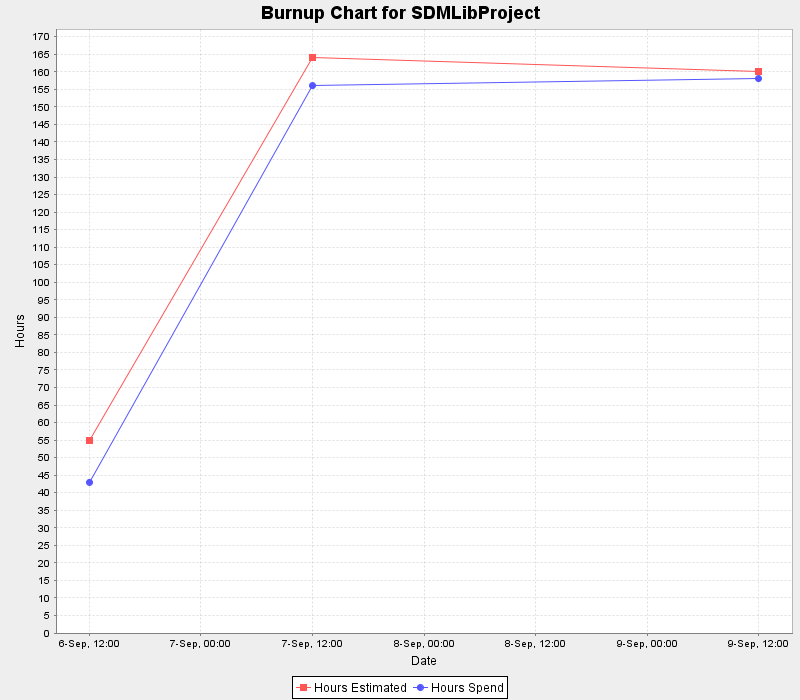
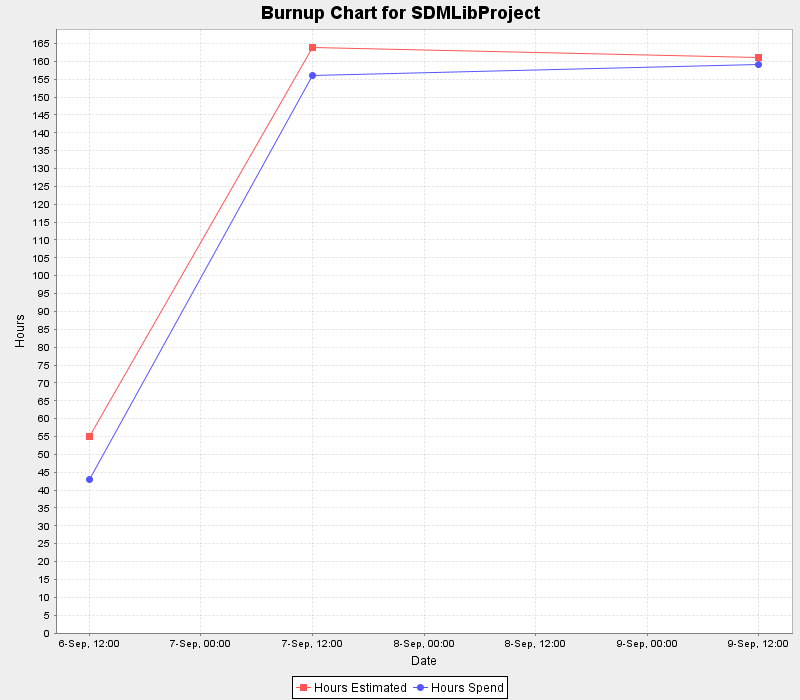
exclude ReverseClassModelTest from ant tests. Problems to find the files. Probably wrong working directory.
git-svn-id: https://svn.code.sf.net/p/sdmlib/code-0/trunk@483 2b52b8e8-071c-4d2f-a868-389f512d1cbb

Changed region(s): [[0.0938, 0.06, 0.9688, 0.66], [0.0312, 0.03, 0.0625, 0.81], [0.0938, 0.66, 0.125, 0.69]]

diff --git a/doc/objectData.html b/doc/objectData.html
@@ -1,6 +1,6 @@
 <html>
 <body>
-<a name='KE.K1'><p>id: <a href='#KE.K1'>KE.K1</a> <br/>class: org.sdmlib.storyboards.KanbanEntry <br/>prop: {"name":"SDMLibProject","phase":"active","lastDeveloper":"zuendorf","hoursRemaining":2,"hoursSpend":158,"subentries":[{"id":"KE.K85"},{"id":"KE.K36"},{"id":"KE.K23"},{"id":"KE.K2"},{"id":"KE.K4"},{"id":"KE.K12"},{"id":"KE.K26"},{"id":"KE.K28"},{"id":"KE.K30"},{"id":"KE.K32"},{"id":"KE.K34"},{"id":"KE.K38"},{"id":"KE.K40"},{"id":"KE.K42"},{"id":"KE.K44"},{"id":"KE.K48"},{"id":"KE.K58"},{"id":"KE.K61"},{"id":"KE.K82"},{"id":"KE.K88"},{"id":"KE.K90"},{"id":"KE.K102"},{"id":"KE.K104"},{"id":"KE.K113"},{"id":"KE.K115"},{"id":"KE.K119"},{"id":"KE.K123"},{"id":"KE.K125"},{"id":"KE.K127"},{"id":"KE.K139"},{"id":"KE.K143"},{"id":"KE.K145"},{"id":"KE.K154"}],"logEntries":[{"id":"KE.L57"},{"id":"KE.L7"},{"id":"KE.L11"},{"id":"KE.L15"},{"id":"KE.L22"},{"id":"KE.L25"},{"id":"KE.L52"},{"id":"KE.L64"},{"id":"KE.L69"},{"id":"KE.L81"},{"id":"KE.L84"},{"id":"KE.L87"},{"id":"KE.L93"},{"id":"KE.L94"},{"id":"KE.L95"},{"id":"KE.L101"},{"id":"KE.L112"},{"id":"KE.L118"},{"id":"KE.L122"},{"id":"KE.L136"},{"id":"KE.L138"},{"id":"KE.L142"},{"id":"KE.L153"},{"id":"KE.L161"}]} <br/></p></a>
+<a name='KE.K1'><p>id: <a href='#KE.K1'>KE.K1</a> <br/>class: org.sdmlib.storyboards.KanbanEntry <br/>prop: {"name":"SDMLibProject","phase":"active","lastDeveloper":"zuendorf","hoursRemaining":2,"hoursSpend":159,"subentries":[{"id":"KE.K85"},{"id":"KE.K36"},{"id":"KE.K23"},{"id":"KE.K2"},{"id":"KE.K4"},{"id":"KE.K12"},{"id":"KE.K26"},{"id":"KE.K28"},{"id":"KE.K30"},{"id":"KE.K32"},{"id":"KE.K34"},{"id":"KE.K38"},{"id":"KE.K40"},{"id":"KE.K42"},{"id":"KE.K44"},{"id":"KE.K48"},{"id":"KE.K58"},{"id":"KE.K61"},{"id":"KE.K82"},{"id":"KE.K88"},{"id":"KE.K90"},{"id":"KE.K102"},{"id":"KE.K104"},{"id":"KE.K113"},{"id":"KE.K115"},{"id":"KE.K119"},{"id":"KE.K123"},{"id":"KE.K125"},{"id":"KE.K127"},{"id":"KE.K139"},{"id":"KE.K143"},{"id":"KE.K145"},{"id":"KE.K154"}],"logEntries":[{"id":"KE.L57"},{"id":"KE.L7"},{"id":"KE.L11"},{"id":"KE.L15"},{"id":"KE.L22"},{"id":"KE.L25"},{"id":"KE.L52"},{"id":"KE.L64"},{"id":"KE.L69"},{"id":"KE.L81"},{"id":"KE.L84"},{"id":"KE.L87"},{"id":"KE.L93"},{"id":"KE.L94"},{"id":"KE.L95"},{"id":"KE.L101"},{"id":"KE.L112"},{"id":"KE.L118"},{"id":"KE.L122"},{"id":"KE.L136"},{"id":"KE.L138"},{"id":"KE.L142"},{"id":"KE.L153"},{"id":"KE.L161"},{"id":"KE.L163"}]} <br/></p></a>
 <a name='KE.K2'><p>id: <a href='#KE.K2'>KE.K2</a> <br/>class: org.sdmlib.storyboards.KanbanEntry <br/>prop: {"name":"StudyRight with assignments class generation","phase":"backlog","lastDeveloper":"ulno","parent":{"id":"KE.K1"},"logEntries":[{"id":"KE.L3"}]} <br/></p></a>
 <a name='KE.K4'><p>id: <a href='#KE.K4'>KE.K4</a> <br/>class: org.sdmlib.storyboards.KanbanEntry <br/>prop: {"name":"LudoStoryboardManual","phase":"backlog","lastDeveloper":"ulno","hoursSpend":1,"parent":{"id":"KE.K1"},"logEntries":[{"id":"KE.L6"},{"id":"KE.L5"}]} <br/></p></a>
 <a name='KE.K8'><p>id: <a href='#KE.K8'>KE.K8</a> <br/>class: org.sdmlib.storyboards.KanbanEntry <br/>prop: {"name":"LudoStoryboard","phase":"backlog","lastDeveloper":"ulno","hoursSpend":4,"parent":{"id":"KE.K127"},"logEntries":[{"id":"KE.L10"},{"id":"KE.L9"}]} <br/></p></a>
@@ -25,7 +25,7 @@
 <a name='KE.K65'><p>id: <a href='#KE.K65'>KE.K65</a> <br/>class: org.sdmlib.storyboards.KanbanEntry <br/>prop: {"name":"StudyRightReverseClassModel","phase":"backlog","lastDeveloper":"ulno","hoursSpend":1,"parent":{"id":"KE.K123"},"logEntries":[{"id":"KE.L68"},{"id":"KE.L67"},{"id":"KE.L66"}]} <br/></p></a>
 <a name='KE.K70'><p>id: <a href='#KE.K70'>KE.K70</a> <br/>class: org.sdmlib.storyboards.KanbanEntry <br/>prop: {"name":"StudyRightClassesCodeGen","phase":"implementation","lastDeveloper":"zuendorf","hoursSpend":12,"parent":{"id":"KE.K123"},"logEntries":[{"id":"KE.L80"},{"id":"KE.L75"},{"id":"KE.L77"},{"id":"KE.L71"},{"id":"KE.L72"},{"id":"KE.L74"},{"id":"KE.L78"},{"id":"KE.L76"},{"id":"KE.L73"},{"id":"KE.L79"}]} <br/></p></a>
 <a name='KE.K82'><p>id: <a href='#KE.K82'>KE.K82</a> <br/>class: org.sdmlib.storyboards.KanbanEntry <br/>prop: {"name":"WrapExistingClasses","phase":"backlog","lastDeveloper":"zuendorf","hoursSpend":5,"parent":{"id":"KE.K1"},"logEntries":[{"id":"KE.L83"}]} <br/></p></a>
-<a name='KE.K85'><p>id: <a href='#KE.K85'>KE.K85</a> <br/>class: org.sdmlib.storyboards.KanbanEntry <br/>prop: {"name":"SortIndex","phase":"done","lastDeveloper":"zuendorf","hoursSpend":1,"parent":{"id":"KE.K1"},"subentries":[{"id":"KE.K155"}],"logEntries":[{"id":"KE.L86"}]} <br/></p></a>
+<a name='KE.K85'><p>id: <a href='#KE.K85'>KE.K85</a> <br/>class: org.sdmlib.storyboards.KanbanEntry <br/>prop: {"name":"SortIndex","phase":"done","lastDeveloper":"zuendorf","hoursSpend":1,"parent":{"id":"KE.K1"},"logEntries":[{"id":"KE.L86"}]} <br/></p></a>
 <a name='KE.K88'><p>id: <a href='#KE.K88'>KE.K88</a> <br/>class: org.sdmlib.storyboards.KanbanEntry <br/>prop: {"name":"taskFlowModel","phase":"backlog","lastDeveloper":"zuendorf","parent":{"id":"KE.K1"},"logEntries":[{"id":"KE.L89"}]} <br/></p></a>
 <a name='KE.K90'><p>id: <a href='#KE.K90'>KE.K90</a> <br/>class: org.sdmlib.storyboards.KanbanEntry <br/>prop: {"name":"PatternModelCodegen","phase":"backlog","lastDeveloper":"zuendorf","hoursSpend":80,"parent":{"id":"KE.K1"},"logEntries":[{"id":"KE.L92"},{"id":"KE.L91"}]} <br/></p></a>
 <a name='KE.K96'><p>id: <a href='#KE.K96'>KE.K96</a> <br/>class: org.sdmlib.storyboards.KanbanEntry <br/>prop: {"name":"TransformationsCodegen","phase":"modeling","lastDeveloper":"zuendorf","hoursSpend":7,"parent":{"id":"KE.K123"},"logEntries":[{"id":"KE.L97"},{"id":"KE.L100"},{"id":"KE.L99"},{"id":"KE.L98"}]} <br/></p></a>
@@ -35,7 +35,7 @@
 <a name='KE.K113'><p>id: <a href='#KE.K113'>KE.K113</a> <br/>class: org.sdmlib.storyboards.KanbanEntry <br/>prop: {"name":"FerrymansProblemExample","phase":"backlog","lastDeveloper":"zuendorf","parent":{"id":"KE.K1"},"logEntries":[{"id":"KE.L114"}]} <br/></p></a>
 <a name='KE.K115'><p>id: <a href='#KE.K115'>KE.K115</a> <br/>class: org.sdmlib.storyboards.KanbanEntry <br/>prop: {"name":"EmptyClass","phase":"done","lastDeveloper":"zuendorf","hoursSpend":1,"parent":{"id":"KE.K1"},"logEntries":[{"id":"KE.L116"},{"id":"KE.L117"}]} <br/></p></a>
 <a name='KE.K119'><p>id: <a href='#KE.K119'>KE.K119</a> <br/>class: org.sdmlib.storyboards.KanbanEntry <br/>prop: {"name":"ExtendStoryboardByAddToDoMethod","phase":"done","lastDeveloper":"zuendorf","hoursSpend":3,"parent":{"id":"KE.K1"},"logEntries":[{"id":"KE.L121"},{"id":"KE.L120"},{"id":"KE.L137"}]} <br/></p></a>
-<a name='KE.K123'><p>id: <a href='#KE.K123'>KE.K123</a> <br/>class: org.sdmlib.storyboards.KanbanEntry <br/>prop: {"name":"Sprint.001.Booting","phase":"active","lastDeveloper":"zuendorf","hoursRemaining":2,"hoursSpend":49,"parent":{"id":"KE.K1"},"subentries":[{"id":"KE.K16"},{"id":"KE.K53"},{"id":"KE.K65"},{"id":"KE.K70"},{"id":"KE.K96"},{"id":"KE.K106"},{"id":"KE.K126"},{"id":"KE.K124"},{"id":"KE.K129"}],"logEntries":[{"id":"KE.L135"},{"id":"KE.L130"},{"id":"KE.L152"}]} <br/></p></a>
+<a name='KE.K123'><p>id: <a href='#KE.K123'>KE.K123</a> <br/>class: org.sdmlib.storyboards.KanbanEntry <br/>prop: {"name":"Sprint.001.Booting","phase":"active","lastDeveloper":"zuendorf","hoursRemaining":2,"hoursSpend":50,"parent":{"id":"KE.K1"},"subentries":[{"id":"KE.K16"},{"id":"KE.K53"},{"id":"KE.K65"},{"id":"KE.K70"},{"id":"KE.K96"},{"id":"KE.K106"},{"id":"KE.K126"},{"id":"KE.K124"},{"id":"KE.K129"},{"id":"KE.K155"}],"logEntries":[{"id":"KE.L135"},{"id":"KE.L130"},{"id":"KE.L152"},{"id":"KE.L162"}]} <br/></p></a>
 <a name='KE.K124'><p>id: <a href='#KE.K124'>KE.K124</a> <br/>class: org.sdmlib.storyboards.KanbanEntry <br/>prop: {"name":"StoryboardInfrastructure","phase":"done","lastDeveloper":"zuendorf","hoursSpend":1,"parent":{"id":"KE.K123"},"logEntries":[{"id":"KE.L134"},{"id":"KE.L133"}]} <br/></p></a>
 <a name='KE.K125'><p>id: <a href='#KE.K125'>KE.K125</a> <br/>class: org.sdmlib.storyboards.KanbanEntry <br/>prop: {"name":"ProjectManagement","phase":"active","lastDeveloper":"zuendorf","parent":{"id":"KE.K1"},"logEntries":[{"id":"KE.L131"}]} <br/></p></a>
 <a name='KE.K126'><p>id: <a href='#KE.K126'>KE.K126</a> <br/>class: org.sdmlib.storyboards.KanbanEntry <br/>prop: {"name":"GroupAccountRuleRecognition","phase":"backlog","parent":{"id":"KE.K123"}} <br/></p></a>
@@ -46,7 +46,7 @@
 <a name='KE.K143'><p>id: <a href='#KE.K143'>KE.K143</a> <br/>class: org.sdmlib.storyboards.KanbanEntry <br/>prop: {"name":"SimpleReachabilityGraphModel","phase":"backlog","lastDeveloper":"zuendorf","parent":{"id":"KE.K1"},"logEntries":[{"id":"KE.L144"}]} <br/></p></a>
 <a name='KE.K145'><p>id: <a href='#KE.K145'>KE.K145</a> <br/>class: org.sdmlib.storyboards.KanbanEntry <br/>prop: {"name":"FerryMansProblemModel","phase":"backlog","lastDeveloper":"zuendorf","parent":{"id":"KE.K1"},"logEntries":[{"id":"KE.L146"}]} <br/></p></a>
 <a name='KE.K154'><p>id: <a href='#KE.K154'>KE.K154</a> <br/>class: org.sdmlib.storyboards.KanbanEntry <br/>prop: {"name":"ExtendStoryboardByAddToDoMethod","phase":"done","lastDeveloper":"zuendorf","hoursSpend":2,"parent":{"id":"KE.K1"},"logEntries":[{"id":"KE.L156"},{"id":"KE.L160"}]} <br/></p></a>
-<a name='KE.K155'><p>id: <a href='#KE.K155'>KE.K155</a> <br/>class: org.sdmlib.storyboards.KanbanEntry <br/>prop: {"name":"StoryboardInfrastructure","phase":"done","lastDeveloper":"zuendorf","hoursSpend":1,"parent":{"id":"KE.K85"},"logEntries":[{"id":"KE.L157"},{"id":"KE.L158"},{"id":"KE.L159"}]} <br/></p></a>
+<a name='KE.K155'><p>id: <a href='#KE.K155'>KE.K155</a> <br/>class: org.sdmlib.storyboards.KanbanEntry <br/>prop: {"name":"StoryboardInfrastructure","phase":"done","lastDeveloper":"zuendorf","hoursSpend":1,"parent":{"id":"KE.K123"},"logEntries":[{"id":"KE.L157"},{"id":"KE.L158"},{"id":"KE.L159"}]} <br/></p></a>
 <a name='KE.L3'><p>id: <a href='#KE.L3'>KE.L3</a> <br/>class: org.sdmlib.storyboards.LogEntry <br/>prop: {"date":"04.09.2013 12:00:00","kanbanEntry":{"id":"KE.K2"},"developer":"ulno","phase":"backlog"} <br/></p></a>
 <a name='KE.L5'><p>id: <a href='#KE.L5'>KE.L5</a> <br/>class: org.sdmlib.storyboards.LogEntry <br/>prop: {"date":"06.09.2013 12:00:00","kanbanEntry":{"id":"KE.K4"},"developer":"ulno","phase":"backlog"} <br/></p></a>
 <a name='KE.L6'><p>id: <a href='#KE.L6'>KE.L6</a> <br/>class: org.sdmlib.storyboards.LogEntry <br/>prop: {"date":"19.07.2012 14:41:05","hoursSpend":1,"kanbanEntry":{"id":"KE.K4"},"developer":"zuendorf","phase":"done","comment":"Achieved: Start situation: "} <br/></p></a>
@@ -161,6 +161,8 @@
 <a name='KE.L159'><p>id: <a href='#KE.L159'>KE.L159</a> <br/>class: org.sdmlib.storyboards.LogEntry <br/>prop: {"date":"19.05.2012 19:22:42","hoursSpend":1,"kanbanEntry":{"id":"KE.K155"},"developer":"zuendorf","phase":"done","comment":"Achieved: Seems that we have solved the problem with the sorting of log entries after loading. "} <br/></p></a>
 <a name='KE.L160'><p>id: <a href='#KE.L160'>KE.L160</a> <br/>class: org.sdmlib.storyboards.LogEntry <br/>prop: {"date":"21.08.2012 17:53:42","hoursSpend":2,"kanbanEntry":{"id":"KE.K154"},"developer":"zuendorf","phase":"done"} <br/></p></a>
 <a name='KE.L161'><p>id: <a href='#KE.L161'>KE.L161</a> <br/>class: org.sdmlib.storyboards.LogEntry <br/>prop: {"date":"09.09.2013 12:00:00","hoursSpend":2,"hoursRemainingInTotal":2,"kanbanEntry":{"id":"KE.K1"},"developer":"zuendorf","phase":"active","comment":"ExtendStoryboardByAddToDoMethod: null"} <br/></p></a>
+<a name='KE.L162'><p>id: <a href='#KE.L162'>KE.L162</a> <br/>class: org.sdmlib.storyboards.LogEntry <br/>prop: {"date":"09.09.2013 12:00:00","hoursSpend":1,"hoursRemainingInTotal":2,"kanbanEntry":{"id":"KE.K123"},"developer":"zuendorf","phase":"active","comment":"StoryboardInfrastructure: null"} <br/></p></a>
+<a name='KE.L163'><p>id: <a href='#KE.L163'>KE.L163</a> <br/>class: org.sdmlib.storyboards.LogEntry <br/>prop: {"date":"09.09.2013 12:00:00","hoursSpend":1,"hoursRemainingInTotal":2,"kanbanEntry":{"id":"KE.K1"},"developer":"zuendorf","phase":"active","comment":"Sprint.001.Booting: StoryboardInfrastructure: null"} <br/></p></a>
 </body>
 </html>
 

diff --git a/doc/SDMLibProjectkanban.html b/doc/SDMLibProjectkanban.html
@@ -4,7 +4,7 @@
 <tr> <th>active</th> <th>backlog</th> <th>modeling</th> <th>implementation</th> <th>done</th> <th>bug</th> </tr>
 <tr> <td valign='top'><table border ='0'><tr><td><table border='1' rules='none' bgcolor='#fafad2'><tr><td><a href='SDMLibProjectkanban.html'>SDMLibProject</a></td></tr>
 <tr><td>developer = zuendorf</td></tr>
-<tr><td>hours spend = 158.0</td></tr>
+<tr><td>hours spend = 159.0</td></tr>
 <tr><td>hours remaining = 2.0</td></tr>
 <tr><td><a href='SDMLibProjectBurnupChart.png'>burnup</a></td></tr>
 <tr><td><a href='SDMLibProjectTimeLine.html'>time line</a></td></tr>
@@ -12,7 +12,7 @@
 <tr><td><table border='1' rules='none' bgcolor='#fafad2'><tr><td><a href='Sprint.001.Bootingkanban.html'>Sprint.001.Booting</a></td></tr>
 <tr><td><a href='SDMLibProjectkanban.html'>SDMLibProject</a></td></tr>
 <tr><td>developer = zuendorf</td></tr>
-<tr><td>hours spend = 49.0</td></tr>
+<tr><td>hours spend = 50.0</td></tr>
 <tr><td>hours remaining = 2.0</td></tr>
 <tr><td><a href='Sprint.001.BootingBurnupChart.png'>burnup</a></td></tr>
 <tr><td><a href='Sprint.001.BootingTimeLine.html'>time line</a></td></tr>
@@ -309,7 +309,7 @@
 <tr><td><a href='ClassModelCodeGenTimeLine.html'>time line</a></td></tr>
 </table><tr><td>
 </table></td>
- <td valign='top'><table border ='0'><tr><td><table border='1' rules='none' bgcolor='#fafad2'><tr><td><a href='SortIndexkanban.html'>SortIndex</a></td></tr>
+ <td valign='top'><table border ='0'><tr><td><table border='1' rules='none' bgcolor='#fafad2'><tr><td><a href='SortIndex.html'>SortIndex</a></td></tr>
 <tr><td><a href='SDMLibProjectkanban.html'>SDMLibProject</a></td></tr>
 <tr><td>developer = zuendorf</td></tr>
 <tr><td>hours spend = 1.0</td></tr>
@@ -349,14 +349,6 @@
 <tr><td><a href='ExtendStoryboardByAddToDoMethodBurnupChart.png'>burnup</a></td></tr>
 <tr><td><a href='ExtendStoryboardByAddToDoMethodTimeLine.html'>time line</a></td></tr>
 </table><tr><td>
-<tr><td><table border='1' rules='none' bgcolor='#fafad2'><tr><td><a href='StoryboardInfrastructure.html'>StoryboardInfrastructure</a></td></tr>
-<tr><td><a href='SortIndexkanban.html'>SortIndex</a></td></tr>
-<tr><td>developer = zuendorf</td></tr>
-<tr><td>hours spend = 1.0</td></tr>
-<tr><td>hours remaining = 0.0</td></tr>
-<tr><td><a href='StoryboardInfrastructureBurnupChart.png'>burnup</a></td></tr>
-<tr><td><a href='StoryboardInfrastructureTimeLine.html'>time line</a></td></tr>
-</table><tr><td>
 <tr><td><table border='1' rules='none' bgcolor='#fafad2'><tr><td><a href='GroupAccountCodegen.html'>GroupAccountCodegen</a></td></tr>
 <tr><td><a href='Sprint.001.Bootingkanban.html'>Sprint.001.Booting</a></td></tr>
 <tr><td>developer = zuendorf</td></tr>
@@ -364,6 +356,14 @@
 <tr><td>hours remaining = 0.0</td></tr>
 <tr><td><a href='GroupAccountCodegenBurnupChart.png'>burnup</a></td></tr>
 <tr><td><a href='GroupAccountCodegenTimeLine.html'>time line</a></td></tr>
+</table><tr><td>
+<tr><td><table border='1' rules='none' bgcolor='#fafad2'><tr><td><a href='StoryboardInfrastructure.html'>StoryboardInfrastructure</a></td></tr>
+<tr><td><a href='Sprint.001.Bootingkanban.html'>Sprint.001.Booting</a></td></tr>
+<tr><td>developer = zuendorf</td></tr>
+<tr><td>hours spend = 1.0</td></tr>
+<tr><td>hours remaining = 0.0</td></tr>
+<tr><td><a href='StoryboardInfrastructureBurnupChart.png'>burnup</a></td></tr>
+<tr><td><a href='StoryboardInfrastructureTimeLine.html'>time line</a></td></tr>
 </table><tr><td>
 <tr><td><table border='1' rules='none' bgcolor='#fafad2'><tr><td><a href='StoryboardInfrastructure.html'>StoryboardInfrastructure</a></td></tr>
 <tr><td><a href='Sprint.001.Bootingkanban.html'>Sprint.001.Booting</a></td></tr>

diff --git a/doc/Sprint.001.Bootingkanban.html b/doc/Sprint.001.Bootingkanban.html
@@ -5,7 +5,7 @@
 <tr> <td valign='top'><table border ='0'><tr><td><table border='1' rules='none' bgcolor='#fafad2'><tr><td><a href='Sprint.001.Bootingkanban.html'>Sprint.001.Booting</a></td></tr>
 <tr><td><a href='SDMLibProjectkanban.html'>SDMLibProject</a></td></tr>
 <tr><td>developer = zuendorf</td></tr>
-<tr><td>hours spend = 49.0</td></tr>
+<tr><td>hours spend = 50.0</td></tr>
 <tr><td>hours remaining = 2.0</td></tr>
 <tr><td><a href='Sprint.001.BootingBurnupChart.png'>burnup</a></td></tr>
 <tr><td><a href='Sprint.001.BootingTimeLine.html'>time line</a></td></tr>
@@ -69,6 +69,14 @@
 <tr><td>hours remaining = 0.0</td></tr>
 <tr><td><a href='GroupAccountCodegenBurnupChart.png'>burnup</a></td></tr>
 <tr><td><a href='GroupAccountCodegenTimeLine.html'>time line</a></td></tr>
+</table><tr><td>
+<tr><td><table border='1' rules='none' bgcolor='#fafad2'><tr><td><a href='StoryboardInfrastructure.html'>StoryboardInfrastructure</a></td></tr>
+<tr><td><a href='Sprint.001.Bootingkanban.html'>Sprint.001.Booting</a></td></tr>
+<tr><td>developer = zuendorf</td></tr>
+<tr><td>hours spend = 1.0</td></tr>
+<tr><td>hours remaining = 0.0</td></tr>
+<tr><td><a href='StoryboardInfrastructureBurnupChart.png'>burnup</a></td></tr>
+<tr><td><a href='StoryboardInfrastructureTimeLine.html'>time line</a></td></tr>
 </table><tr><td>
 <tr><td><table border='1' rules='none' bgcolor='#fafad2'><tr><td><a href='StoryboardInfrastructure.html'>StoryboardInfrastructure</a></td></tr>
 <tr><td><a href='Sprint.001.Bootingkanban.html'>Sprint.001.Booting</a></td></tr>

diff --git a/doc/StoryboardInfrastructureTimeLine.html b/doc/StoryboardInfrastructureTimeLine.html
@@ -1,6 +1,7 @@
 <html>
 <body>
-<p>Time line for StoryboardInfrastructure</p><p>19.05.2012 19:22:42 zuendorf hours spend: 1.0 hours remaining: 0.0 Achieved: Seems that we have solved the problem with the sorting of log entries after loading. </p>
+<p>Time line for StoryboardInfrastructure</p><p>09.09.2013 12:00:00 zuendorf hours spend: 0.0 hours remaining: 0.0 null</p>
 <p>07.05.2012 23:36:42 zuendorf hours spend: 0.0 hours remaining: 0.0 Achieved:  Editing the log entries works now fine as part of the add method. </p>
+<p>19.05.2012 19:22:42 zuendorf hours spend: 1.0 hours remaining: 0.0 Achieved: Seems that we have solved the problem with the sorting of log entries after loading. </p>
 </body>
 </html>

diff --git a/doc/refs.html b/doc/refs.html
@@ -4,7 +4,6 @@
 <a href="SDMLibProjectkanban.html" target="Main">SDMLibProjectkanban</a><br>
  <a href="Sprint.002.Transformationskanban.html" target="Main">Sprint.002.Transformationskanban</a><br>
  <a href="Sprint.001.Bootingkanban.html" target="Main">Sprint.001.Bootingkanban</a><br>
- <a href="SortIndexkanban.html" target="Main">SortIndexkanban</a><br>
  <br><a href="ClassModelCodeGen.html" target="Main">ClassModelCodeGen</a><br>
  <a href="EmptyClass.html" target="Main">EmptyClass</a><br>
  <a href="ExtendStoryboardByAddToDoMethod.html" target="Main">ExtendStoryboardByAddToDoMethod</a><br>

diff --git a/doc/StudyRightExtendsReverseClassModel.html b/doc/StudyRightExtendsReverseClassModel.html
@@ -1,7 +1,7 @@
 <html>
 <meta http-equiv="X-UA-Compatible" content="IE=9">
 <body>
-<p>Storyboard <a href='../examples/org/sdmlib/examples/studyright/StudyRightModel.java' type='text/x-java'>StudyRightExtendsReverseClassModel</a></p>
+<p>Storyboard <a href='../test/org/sdmlib/model/classes/ReverseClassModelTest.java' type='text/x-java'>StudyRightExtendsReverseClassModel</a></p>
 <p>Start situation: There are some java files. We parse them and generate a class model: </p>
 <embed type="image/svg+xml" src='StudyRightExtendsReverseClassModel.svg'>
 </body>

diff --git a/doc/Sprint.001.BootingTimeLine.html b/doc/Sprint.001.BootingTimeLine.html
@@ -3,5 +3,6 @@
 <p>Time line for Sprint.001.Booting</p><p>07.09.2013 12:00:00 zuendorf hours spend: 1.0 hours remaining: 2.0 TransformationsCodegen: null</p>
 <p>07.09.2013 12:00:00 zuendorf hours spend: 38.0 hours remaining: 2.0 ClassModelCodeGen: null</p>
 <p>07.09.2013 12:00:00 zuendorf hours spend: 10.0 hours remaining: 2.0 TransformationsCodegen: null</p>
+<p>09.09.2013 12:00:00 zuendorf hours spend: 1.0 hours remaining: 2.0 StoryboardInfrastructure: null</p>
 </body>
 </html>

diff --git a/doc/SDMLibProjectTimeLine.html b/doc/SDMLibProjectTimeLine.html
@@ -24,5 +24,6 @@
 <p>07.09.2013 12:00:00 zuendorf hours spend: 0.0 hours remaining: 8.0 PatternModelCodegen: null</p>
 <p>07.09.2013 12:00:00 zuendorf hours spend: 10.0 hours remaining: 8.0 PatternModelCodegen: null</p>
 <p>09.09.2013 12:00:00 zuendorf hours spend: 2.0 hours remaining: 2.0 ExtendStoryboardByAddToDoMethod: null</p>
+<p>09.09.2013 12:00:00 zuendorf hours spend: 1.0 hours remaining: 2.0 Sprint.001.Booting: StoryboardInfrastructure: null</p>
 </body>
 </html>
